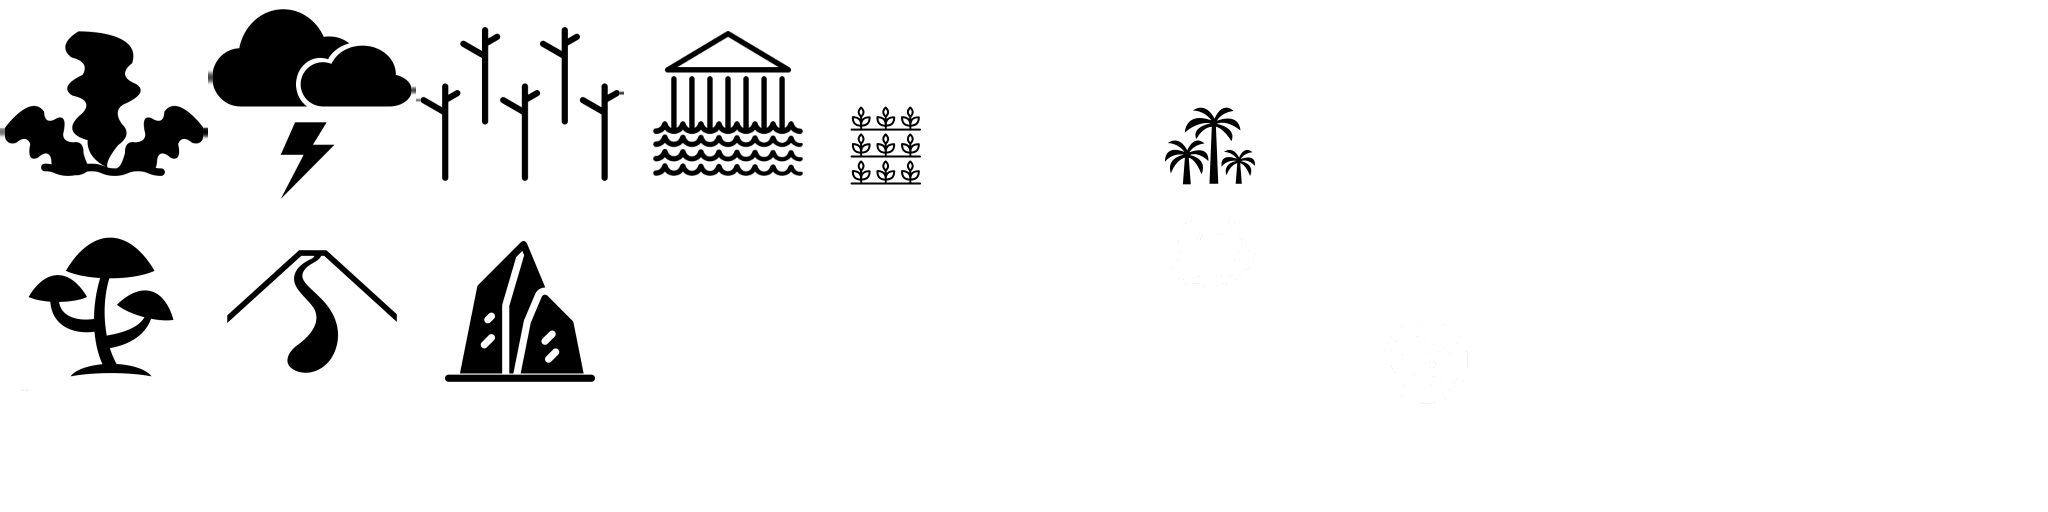
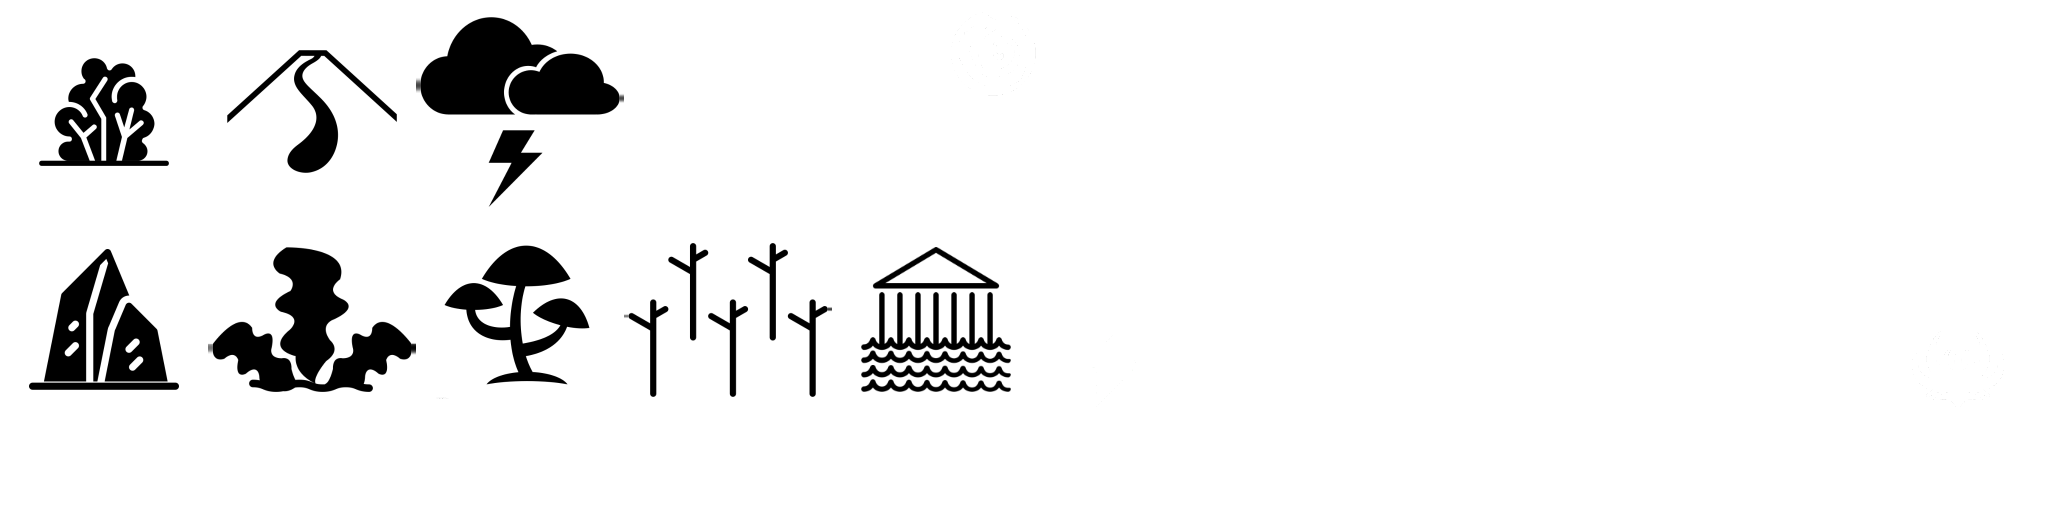
fix
map gen finally fixed
broken lords playable

Changed region(s): [[0.0, 0.4688, 0.5, 0.7812], [0.0, 0.0, 0.4688, 0.375], [0.5625, 0.2188, 0.625, 0.375]]

diff --git a/README.md b/README.md
@@ -16,20 +16,22 @@ Use for strategic resources by adding them to building requirements.
 
 ### Image Credits
 
-##### Faction Images: Extracted from Endless Legend
+###### Faction Images: Extracted from Endless Legend
 
-##### Setseke: Extracted from Endless Legend
+###### Setseke: Extracted from Endless Legend
 
-##### Kelp Forest: Kelp by Brand Mania from NounProject.com https://thenounproject.com/icon/kelp-1175213/
+###### Kelp Forest: Kelp by Brand Mania from NounProject.com https://thenounproject.com/icon/kelp-1175213/
 
-##### Perpetual Storm: Lightning by Sophia Lee from NounProject.com https://thenounproject.com/icon/lightning-59362/
+###### Perpetual Storm: Lightning by Sophia Lee from NounProject.com https://thenounproject.com/icon/lightning-59362/
 
-##### Enchanted Woods: Mushroom by richad from NounProject.com https://thenounproject.com/icon/mushroom-3011162/
+###### Shrubland: Shrub by Andre Buand from NounProject.com https://thenounproject.com/icon/shrub-4416049/
 
-##### Rock Spike: Ice by Tommy Suhartomo from NounProject.com https://thenounproject.com/icon/ice-3946171/
+###### Enchanted Woods: Mushroom by richad from NounProject.com https://thenounproject.com/icon/mushroom-3011162/
 
-##### Sunken Ruins: Flooded Bank by Till Teenck from NounProject.com https://thenounproject.com/icon/flooded-bank-156931/
+###### Rock Spike: Ice by Tommy Suhartomo from NounProject.com https://thenounproject.com/icon/ice-3946171/
 
-##### Scorched wildlands: Bare Trees by Marie Van den Broeck from NounProject.com https://thenounproject.com/icon/bare-trees-264528/
+###### Sunken Ruins: Flooded Bank by Till Teenck from NounProject.com https://thenounproject.com/icon/flooded-bank-156931/
 
-##### Lava Swirl: Lava Flow by Hayashi Fumihiro from NounProject.com https://thenounproject.com/icon/lava-flow-79093/
+###### Scorched wildlands: Bare Trees by Marie Van den Broeck from NounProject.com https://thenounproject.com/icon/bare-trees-264528/
+
+###### Lava Swirl: Lava Flow by Hayashi Fumihiro from NounProject.com https://thenounproject.com/icon/lava-flow-79093/
